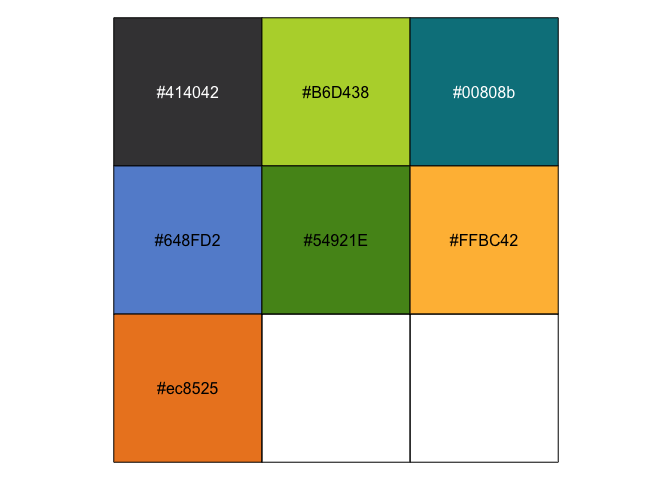
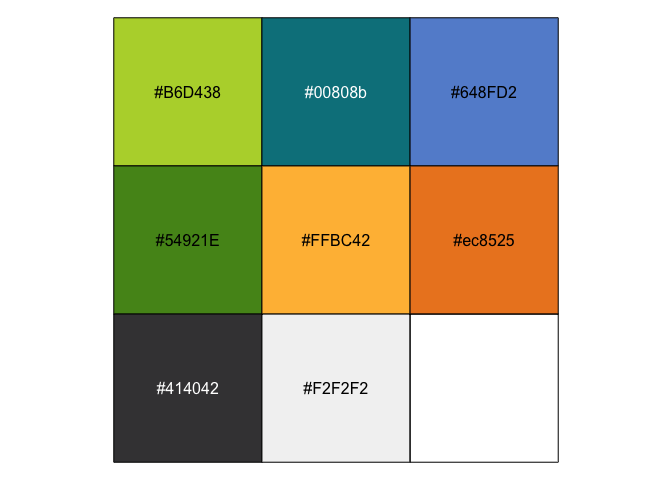
Reknit README with new colours

diff --git a/README.md b/README.md
@@ -43,10 +43,10 @@ so.
 library("AAGIPalettes")
 
 aagi_colours
-#>        AAGI Black AAGI Bright Green         AAGI Teal         AAGI Blue 
-#>         "#414042"         "#B6D438"         "#00808b"         "#648FD2" 
-#>        AAGI Green       AAGI Yellow       AAGI Orange 
-#>         "#54921E"         "#FFBC42"         "#ec8525"
+#> AAGI Bright Green         AAGI Teal         AAGI Blue        AAGI Green 
+#>         "#B6D438"         "#00808b"         "#648FD2"         "#54921E" 
+#>       AAGI Yellow       AAGI Orange        AAGI Black         AAGI Grey 
+#>         "#FFBC42"         "#ec8525"         "#414042"         "#F2F2F2"
 ```
 
 ### Viewing Colours
